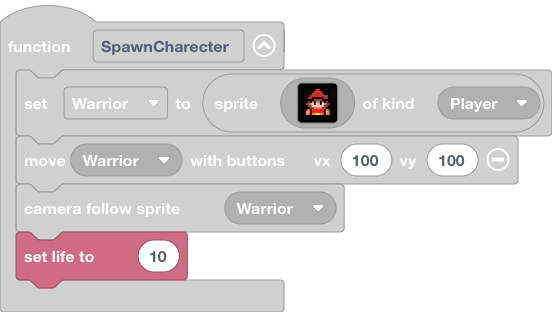
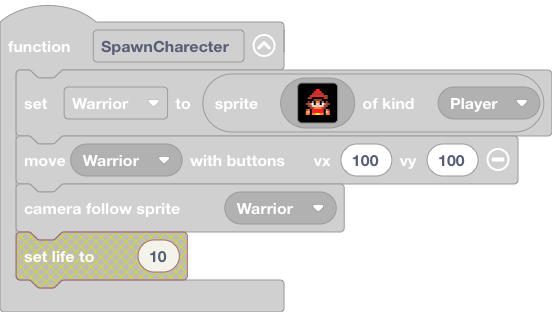
Update main.blocks, main.ts

Changed region(s): [[0.0308, 0.7212, 0.3388, 0.9231]]

diff --git a/main.ts b/main.ts
@@ -40,7 +40,6 @@ function SpawnCharecter () {
         `, SpriteKind.Player)
     controller.moveSprite(Warrior, 100, 100)
     scene.cameraFollowSprite(Warrior)
-    info.setLife(10)
 }
 function LevelTheDeathGateHub () {
     tiles.setCurrentTilemap(tilemap`DeathGateHub`)
